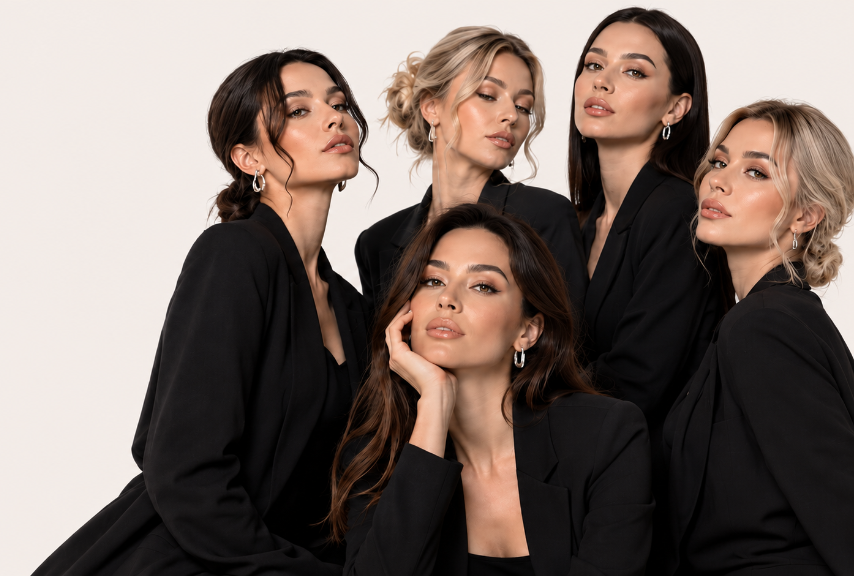
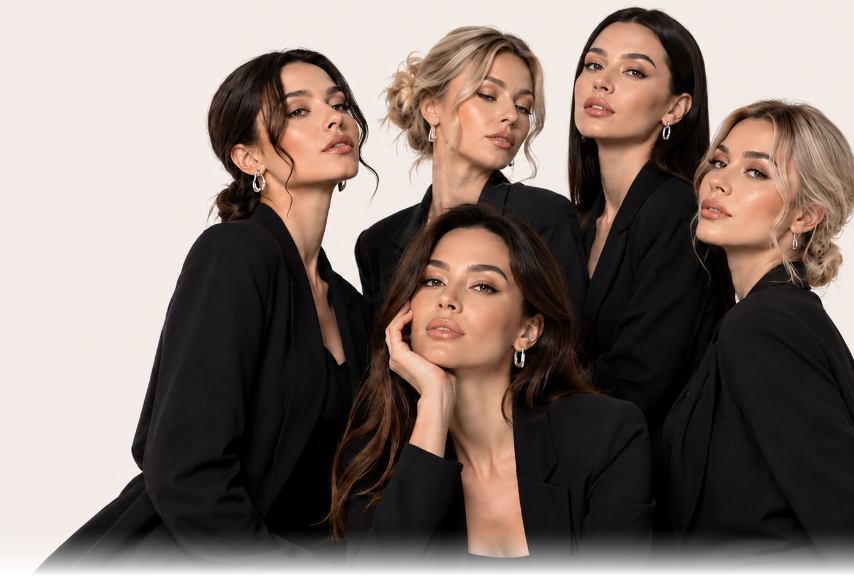
style(mobile): shift content down by 18px and add soft gradient bottom fade

Changed region(s): [[0.0304, 0.9062, 1.0, 1.0]]

diff --git a/style.css b/style.css
@@ -1166,7 +1166,7 @@ img {
 
   .hero-left-content {
     position: static;
-    padding: calc(var(--header-height) + 16px) var(--screen-padding-h) 0;
+    padding: calc(var(--header-height) + 34px) var(--screen-padding-h) 0;
     max-width: 100%;
     width: 100%;
     order: 1;
@@ -1271,7 +1271,20 @@ img {
     justify-content: center;
   }
 
+  .hero-image-stage::after {
+    content: '';
+    position: absolute;
+    left: 0;
+    right: 0;
+    bottom: 0;
+    height: 48px;
+    background: linear-gradient(to bottom, rgba(243, 235, 231, 0) 0%, rgba(243, 235, 231, 0.75) 60%, rgba(243, 235, 231, 1) 100%);
+    pointer-events: none;
+    z-index: 2;
+  }
+
   .hero-picture {
+    position: relative;
     display: block;
     width: 100%;
     max-width: 480px;
@@ -1286,6 +1299,8 @@ img {
     object-position: center top;
     display: block;
     transform: none;
+    -webkit-mask-image: linear-gradient(to bottom, #000 80%, rgba(0, 0, 0, 0.85) 90%, transparent 100%);
+    mask-image: linear-gradient(to bottom, #000 80%, rgba(0, 0, 0, 0.85) 90%, transparent 100%);
   }
 
   .hero-bottom-info {
@@ -1308,7 +1323,7 @@ img {
   }
 
   .hero-left-content {
-    padding: calc(var(--header-height) + 12px) var(--screen-padding-h) 0;
+    padding: calc(var(--header-height) + 30px) var(--screen-padding-h) 0;
   }
 
   .hero-title {

diff --git a/generate_renders.py b/generate_renders.py
@@ -218,8 +218,8 @@ def render_mobile_exact(output_filename):
     draw.line([(ham_x + 12, ham_y + 15), (ham_x + 28, ham_y + 15)], fill=COLOR_BLACK, width=2)
     draw.line([(ham_x + 12, ham_y + 23), (ham_x + 28, ham_y + 23)], fill=COLOR_BLACK, width=2)
 
-    # Mobile Typography
-    y = header_h + 16
+    # Mobile Typography (Shifted down by 18px per user request)
+    y = header_h + 34
     try:
         f_title_m = ImageFont.truetype(SERIF_BODONI, 36, index=0)
     except:
@@ -264,7 +264,7 @@ def render_mobile_exact(output_filename):
     bbox_sec = draw.textbbox((0, 0), txt_sec, font=f_btn_m)
     tw_sec = bbox_sec[2] - bbox_sec[0]
     draw.text(((W - tw_sec) // 2, y), txt_sec, font=f_btn_m, fill=COLOR_BLACK)
-    y += 28
+    y += 26
 
     # Group Photo on Mobile: placed right under buttons without empty gap
     grp_m = Image.open("assets/group-girls-mobile.png").convert("RGBA")
@@ -272,6 +272,14 @@ def render_mobile_exact(output_filename):
     ph = int(grp_m.height * (pw / grp_m.width))
     grp_scaled = grp_m.resize((pw, ph), Image.Resampling.LANCZOS)
     canvas.alpha_composite(grp_scaled, (0, y))
+
+    # Smooth bottom transition overlay
+    fade_overlay = Image.new("RGBA", (W, 40), (0, 0, 0, 0))
+    d_fade = ImageDraw.Draw(fade_overlay)
+    for fy in range(40):
+        alpha = int(255 * ((fy / 39) ** 1.3))
+        d_fade.line([(0, fy), (W, fy)], fill=BG_IVORY + (alpha,))
+    canvas.alpha_composite(fade_overlay, (0, y + ph - 40))
 
     final_rgb = canvas.convert("RGB")
     final_rgb.save(output_filename, quality=96)
